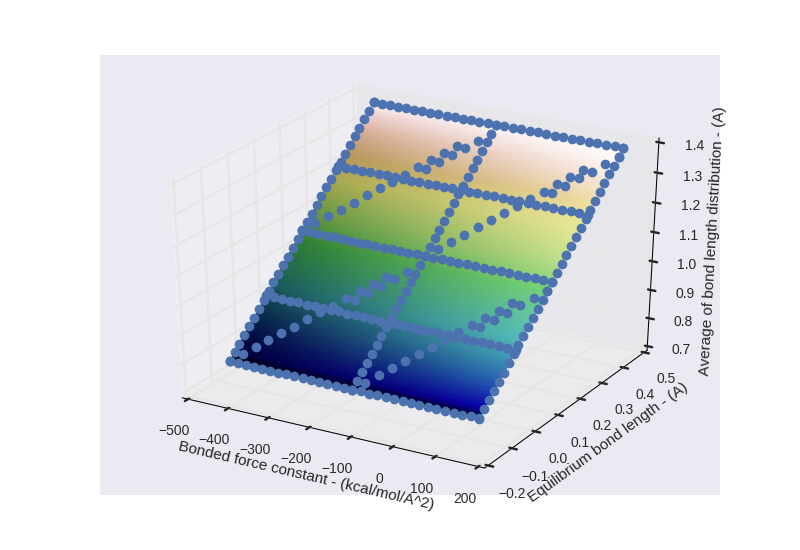
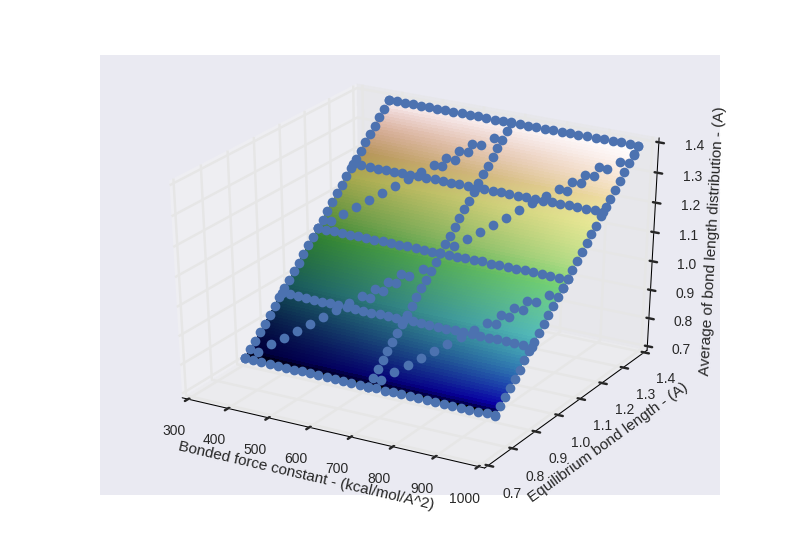
Axes labels to bond O(theta) plots with surface fits

diff --git a/single-molecule-property-generation/graph_bl.py b/single-molecule-property-generation/graph_bl.py
@@ -37,11 +37,15 @@ def poly_matrix(x, y, order=2):
     return G
 
 ordr = 2  # order of polynomial
+#x_av_0 = x_av[0]
+#y_av_0 = y_av[0]
+#x_var_0 = x_var[0]
+
 x_av, y_av, z_av = points_av.T
-x_av, y_av = x_av - x_av[0], y_av - y_av[0]  # this improves accuracy
+#x_av, y_av = x_av - x_av[0], y_av - y_av[0]  # this improves accuracy
 
 x_var, y_var, z_var = points_var.T
-x_var, y_var = x_var - x_var[0], y_var - y_var[0]  # this improves accuracy
+#x_var, y_var = x_var - x_var[0], y_var - y_var[0]  # this improves accuracy
 
 
 
